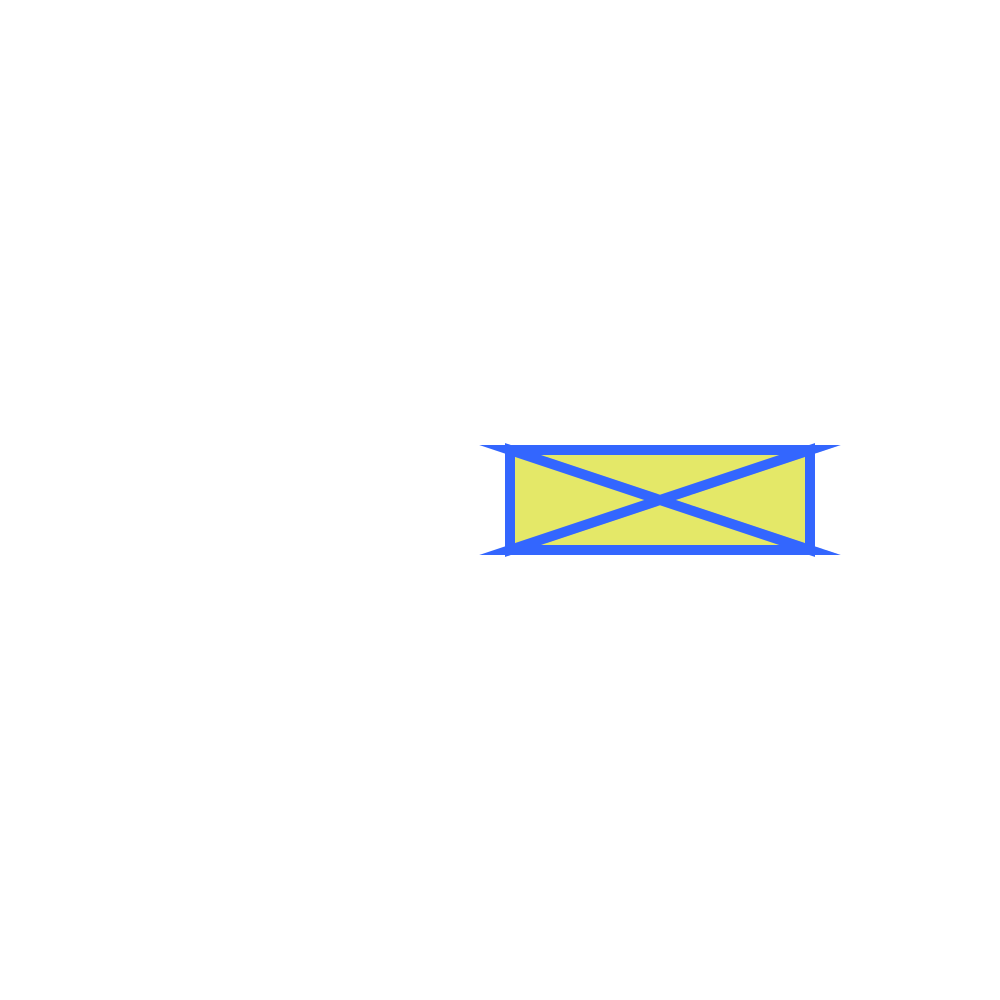
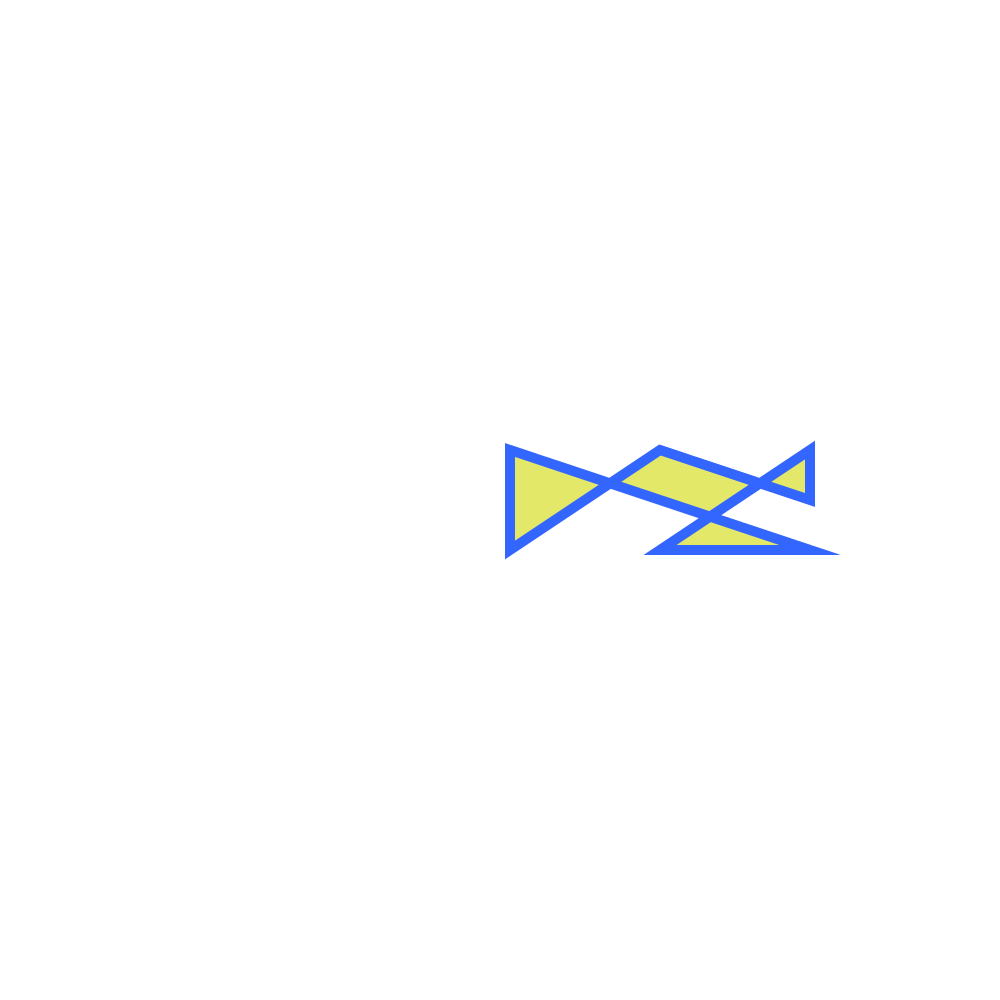
Update

Changed region(s): [[0.496, 0.434, 0.837, 0.558]]

diff --git a/src/common/VRML.cpp b/src/common/VRML.cpp
@@ -143,7 +143,11 @@ vector<vector<int>> makeFaces(vector<vector<int>> points) {
       currentFace.push_back(num);
     } else {
       if (!currentFace.empty()) {
-        faces.push_back(currentFace);
+        auto multiFaces = splitFace3P(currentFace);
+        for (auto f : multiFaces) {
+          faces.push_back(f);
+        }
+        // faces.push_back(currentFace);
         currentFace.clear();
       }
     }
@@ -151,9 +155,23 @@ vector<vector<int>> makeFaces(vector<vector<int>> points) {
 
   // Add the last face if there was no -1 at the end
   if (!currentFace.empty()) {
-    faces.push_back(currentFace);
+    auto multiFaces = splitFace3P(currentFace);
+    for (auto f : multiFaces) {
+      faces.push_back(f);
+    }
   }
   return faces;
+}
+
+vector<vector<int>> splitFace3P(vector<int> points) {
+  vector<vector<int>> output;
+  for (int i = 1; i < points.size() - 1; i++) {
+    int p0 = points[0];
+    int p1 = points[i];
+    int p2 = points[i + 1];
+    output.push_back({p0, p1, p2});
+  }
+  return output;
 }
 
 // Nếu token có định dạng sau

diff --git a/src/function/Geometry3D.cpp b/src/function/Geometry3D.cpp
@@ -1,11 +1,13 @@
 #include "Geometry3D.h"
-#include "../common/Debug.h"
+
 #include <CGAL/Exact_predicates_inexact_constructions_kernel.h>
 #include <CGAL/Polyhedron_3.h>
 #include <CGAL/Polyhedron_incremental_builder_3.h>
 
 #include <iostream>
 #include <vector>
+
+#include "../common/Debug.h"
 
 // Trả về true nếu trong segment có đoạn AB hoặc BA
 bool hasExistedSegment(vector<Segment> &segments, Point &pA, Point &pB) {
@@ -105,9 +107,12 @@ std::vector<Point> polygonAtZ(void *shape, int z) {
         float px = static_cast<float>(p->x());
         float py = static_cast<float>(p->y());
         float pz = static_cast<float>(p->z());
-        // if (hasExistedPoint(points, px, py, pz)) {
-        //   continue;
-        // }
+        if (hasExistedPoint(points, px, py, pz)) {
+          cout << "hasExistedPoint << " << px << "," << py << "," << pz << endl;
+          continue;
+        }
+
+        cout << "Cut Point << " << px << "," << py << "," << pz << endl;
         points.push_back({px, py, pz});
       }
     } while (++hec != fi->facet_begin());

diff --git a/src/common/VRML.h b/src/common/VRML.h
@@ -40,6 +40,8 @@ bool isNumberArray(string str);
 Point parsePoint(string token);
 FaceDef parseFace(string token);
 
+vector<vector<int>> splitFace3P(vector<int> points);
+
 vector<float> parseColor(string token);
 vector<string> vrml2tokenStrings(string line);
 vector<VrmlObject *> read_vrml_file(string file);
